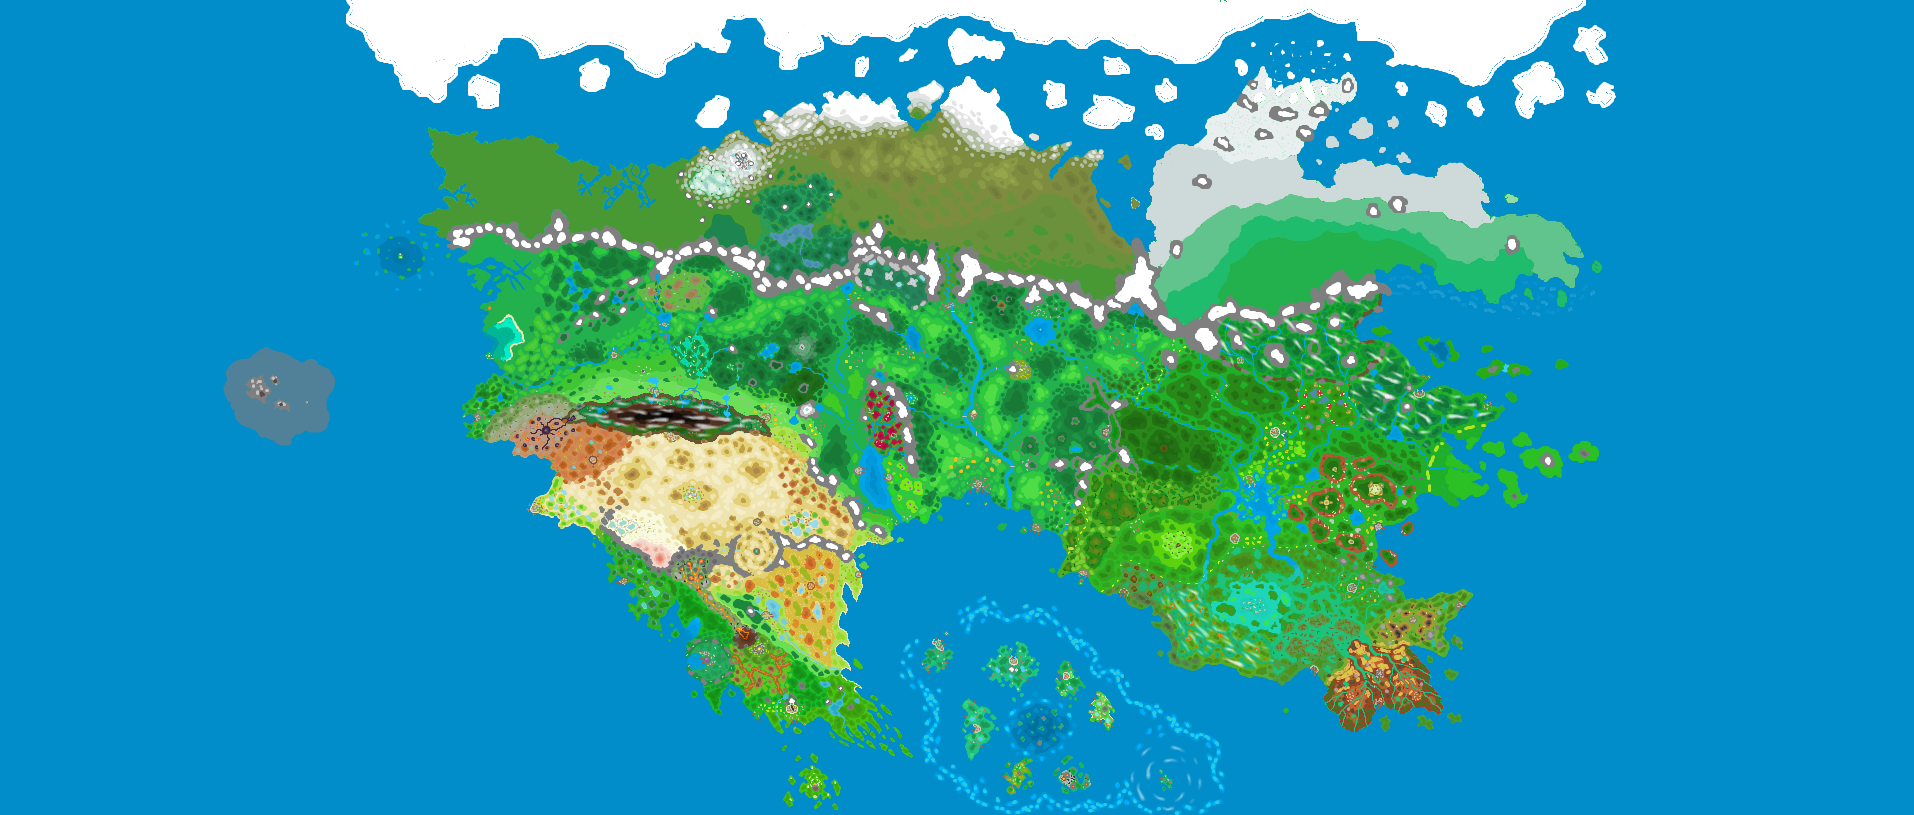
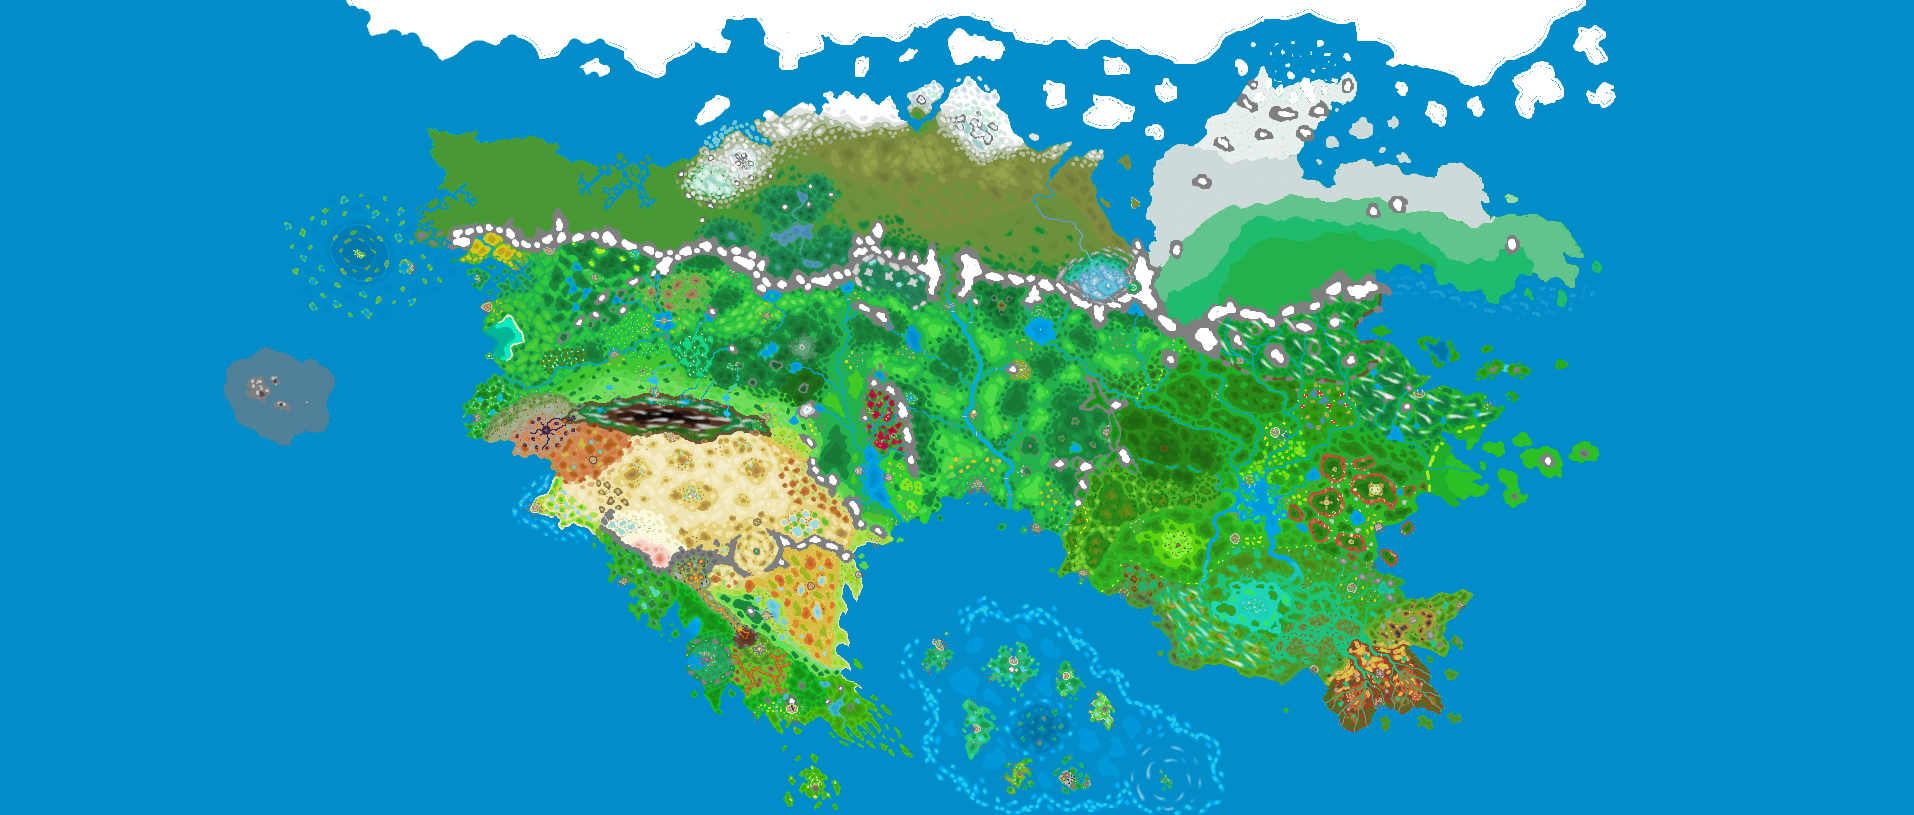
Commit-Atualizações Northwind e outras nações.

diff --git a/Pages/Nations/northwind.html b/Pages/Nations/northwind.html
@@ -3,7 +3,7 @@
 <head>
     <meta charset="UTF-8">
     <meta name="viewport" content="width=device-width, initial-scale=1.0">
-    <title>Heavenrock - Drakma Wiki</title>
+    <title>Northwind - Drakma Wiki</title>
 
     <link rel="stylesheet" href="../../CSS/style.css">
 
@@ -23,14 +23,14 @@
     >
     <a href="../World_Pages/nations.html">Nations</a>
     >
-    <span>Heavenrock</span>
+    <span>Northwind</span>
 </nav>
 
 <header>
-    <h1>Kingdom of Heavenrock</h1>
+    <h1>Northwind Empire</h1>
 
     <p>
-        The birthplace of Path Magic, also known as the nation of magic.
+        The largest nation of Drakma, located in the far north.
     </p>
 </header>
 
@@ -38,8 +38,8 @@
 
     <aside class="infobox">
 
-        <img src="../../Images/wyrmcrest_map.png"
-             alt="Map of Wyrmcrest">
+        <img src="../../Images/northwind_map.png"
+             alt="Map of Northwind">
 
         <h3>Nation's Informations</h3>
 
@@ -47,7 +47,7 @@
 
             <tr>
                 <th>Capital</th>
-                <td>City of Wyrmcrest</td>
+                <td>City of Dorsek</td>
             </tr>
 
             <tr>
@@ -57,12 +57,12 @@
 
             <tr>
                 <th>Population</th>
-                <td>19 Million</td>
+                <td>13 Million</td>
             </tr>
 
             <tr>
                 <th>Demonym</th>
-                <td></td>
+                <td>Northlander</td>
             </tr>
 
             <tr>
@@ -79,22 +79,19 @@
         <h2>Overview</h2>
 
         <p>
-            The Kingdom of Heavenrock is located to the west of the Heartlands,
-            being a neighbor of Wyrmcrest, Varlon and Dragonfell.
-            To its north lays the Crown of Fangs, separating it from Northwind,
-            and to the south lays the region of the Abyss.
-            Heavenrock is also known as the Nation of Magic due to being the
-            birthplace Path Magic and the Home of the Magic Academy. Magic is
-            used in almost everything in Heavenrock, from farming and building
-            to healing and entertaiment, they are especialy known for the use
-            of golens for transport and hard labour.
+            Among the nations of Drakma, Northwind is by far the largest one,
+            but also the most isolated. Located north of the Crown of Fangs,
+            the only large and relatively safe routes to enter the nation are
+            through the Howling Canion and the western shores.
         </p>
 
         <p>
-            The founding of Heavenrock happened close to the end of the Age of
-            Heroes by king Arlan the Conqueror. He was able to conquer much of
-            the territories that would compose Heavenrock one day through wars
-            and aliances.
+            Like other nations Northwind can trace its  founding to the Age
+            of Heroes, being a bit younger than Heavenrock. It was founded by
+            Boreas the Conqueror, who subjugated the neighboring tribes and
+            warlords to and initiated the construction of the First Capital,
+            Windrise, though centuries later the city would be destroyed and
+            taken over by the dragon, Vaelkros, becoming known as Windfall.
         </p>
 
         <h2>Geography</h2>
@@ -102,50 +99,50 @@
         <h3>Terrain</h3>
 
         <p>
-            The lands of Heavenrock are very varied, they include, deep forests,
-            swamps, plains, rolling hills, mountainous regions, fiords, river
-            valleys, islands and sandy beaches. The Abyss acts as a large natural
-            barrier in the south, while the Dark Forest protects most of the east
-            and the Crown of Fangs blocks the north, to the west lays the infamous
-            Ashen Islands and the Smoldering Sea.
+            The territories of Northwind reach from one extremity of Drakma to
+            the other, the climate is mostly cold throughout the year and most
+            of its lands are comprised of tundras, fiords, mountainous regions,
+            ancient forests, valleys and jagged shorelines.
+            The Crown of Fangs can be seen from most of the kingdom, stretching
+            from east to west, cutting the landscape.
         </p>
 
         <h3>Climate</h3>
 
         <p>
-            Heavenrock experiences mostly cold and temperate climates due to its
-            geography. Northern regions, particularly close to the Crown of Fangs,
-            receive regular snowfall during winter, while the
-            southern territories enjoy milder weather thanks to their proximity
-            to the coasts, the Abyss and the deserts of Dragonfell.
+            Northwind experiences mostly cold climates due to its geography,
+            during the winter, it snows almost across all of its territory,
+            most harbors end up frozen during the winter.
+            The regions furthest to the north remain covered in ice and snow
+            almost constantly, blizzards and snow storms are pretty common
+            during winter season in these regions.
         </p>
 
         <h3>Natural Resources</h3>
 
         <p>
-            Heavenrock is known for possessing abundant magical resources and fertile
-            farmland, when it comes to regular mineral deposits they tend to lack
-            large stable sorces. Due to their over reliance on magical resources,
-            many of them are getting depleated at an alarming rate, forcing the nation
-            to import more from its neighbors.
+            Due to its climate, Northwind isn't able to produce certain kind
+            of crops, having to rely on hardy and cold resistant plants.
+            Live stock may include species of sheep, cow, goats and even bison
+            in some locations, aside from other native species.
+            Northwind is also the second-largest exporter of mineral resources
+            in the continent, only behind Garmorys, some of these minerals can
+            only be found in Northwind and are very valuable.
         </p>
 
         <h2>History</h2>
 
         <p>
-            The kingdom traces its origins to the end of the Age of Heroes.
-            According to historical records, King Arlan I united the region after
-            many wars and aliances, establishing the Kingdom of
-            Heavenrock, over the comming centuries more territories were slowly
-            added, including the Abyss, though eventualy it became independent
-            again.
+            Due to its isolation from the rest of the continent, most of
+            Northwind's history are from the era before their unification and
+            recollections of civil wars and conflicts that happened after it.
         </p>
 
         <p>
-            Over the following centuries since its founding, Heavenrock's
-            influence spread across the continent, mostly thanks to the Magic
-            Academy's efforts'. Though after the creation and expancion of
-            the Hunters Guild this influence has steadly diminished.
+            On the grand scheme of things, Northwind isn't very influential,
+            they are certainly respected, especially by their close alies, but
+            aside from its neighbors, the other nations barely interact with
+            Northwind.
         </p>
 
         <h2>Population and Culture</h2>
@@ -289,10 +286,10 @@
             </li>
 
             <li>
-                <strong>Forest 1</strong> —
+                <strong></strong> —
             </li>
             <li>
-                <strong>Forest 2</strong> —
+                <strong></strong> —
             </li>
         </ul>
 

diff --git a/Pages/Nations/heavenrock.html b/Pages/Nations/heavenrock.html
@@ -256,6 +256,12 @@
                 Astrologers, its located in the region of the Cristaline Basin, the
                 Grand Observatory is also located here.
             </li>
+
+            <li>
+                <strong>Marely</strong> — Located in the region of the Ancestral
+                Falls, Marely is the only large settlement around. It serves as a
+                stop point before entering Northwind by sea.
+            </li>
         </ul>
 
         <h3>Natural Regions</h3>
@@ -306,13 +312,15 @@
             </li>
 
             <li>
-                <strong>Emberroot Flats</strong> — A region technicaly belonging to
+                <strong>Emberroot Flats</strong> — A region technically belonging to
                 the Abyss, was abandoned long ago due to the same magical disaster
                 that created the Molten Badlands.
             </li>
 
             <li>
-                <strong></strong> —
+                <strong>Ancestral Falls</strong> — An large archipelago af many
+                dozens of islands located between Northwind and Heavenrock. Known
+                for its Oceanic Platforms and Chalice Islands.
             </li>
             <li>
                 <strong></strong> —

diff --git a/Pages/Nations/dragonfell.html b/Pages/Nations/dragonfell.html
@@ -356,7 +356,9 @@
             </li>
 
             <li>
-                <strong></strong> —
+                <strong>Tiam-Kala</strong> — An ancient ruined city that has long
+                been buried beneath the Sea of Dunes, little is known of its
+                origins or what caused its demise.
             </li>
 
         </ul>
